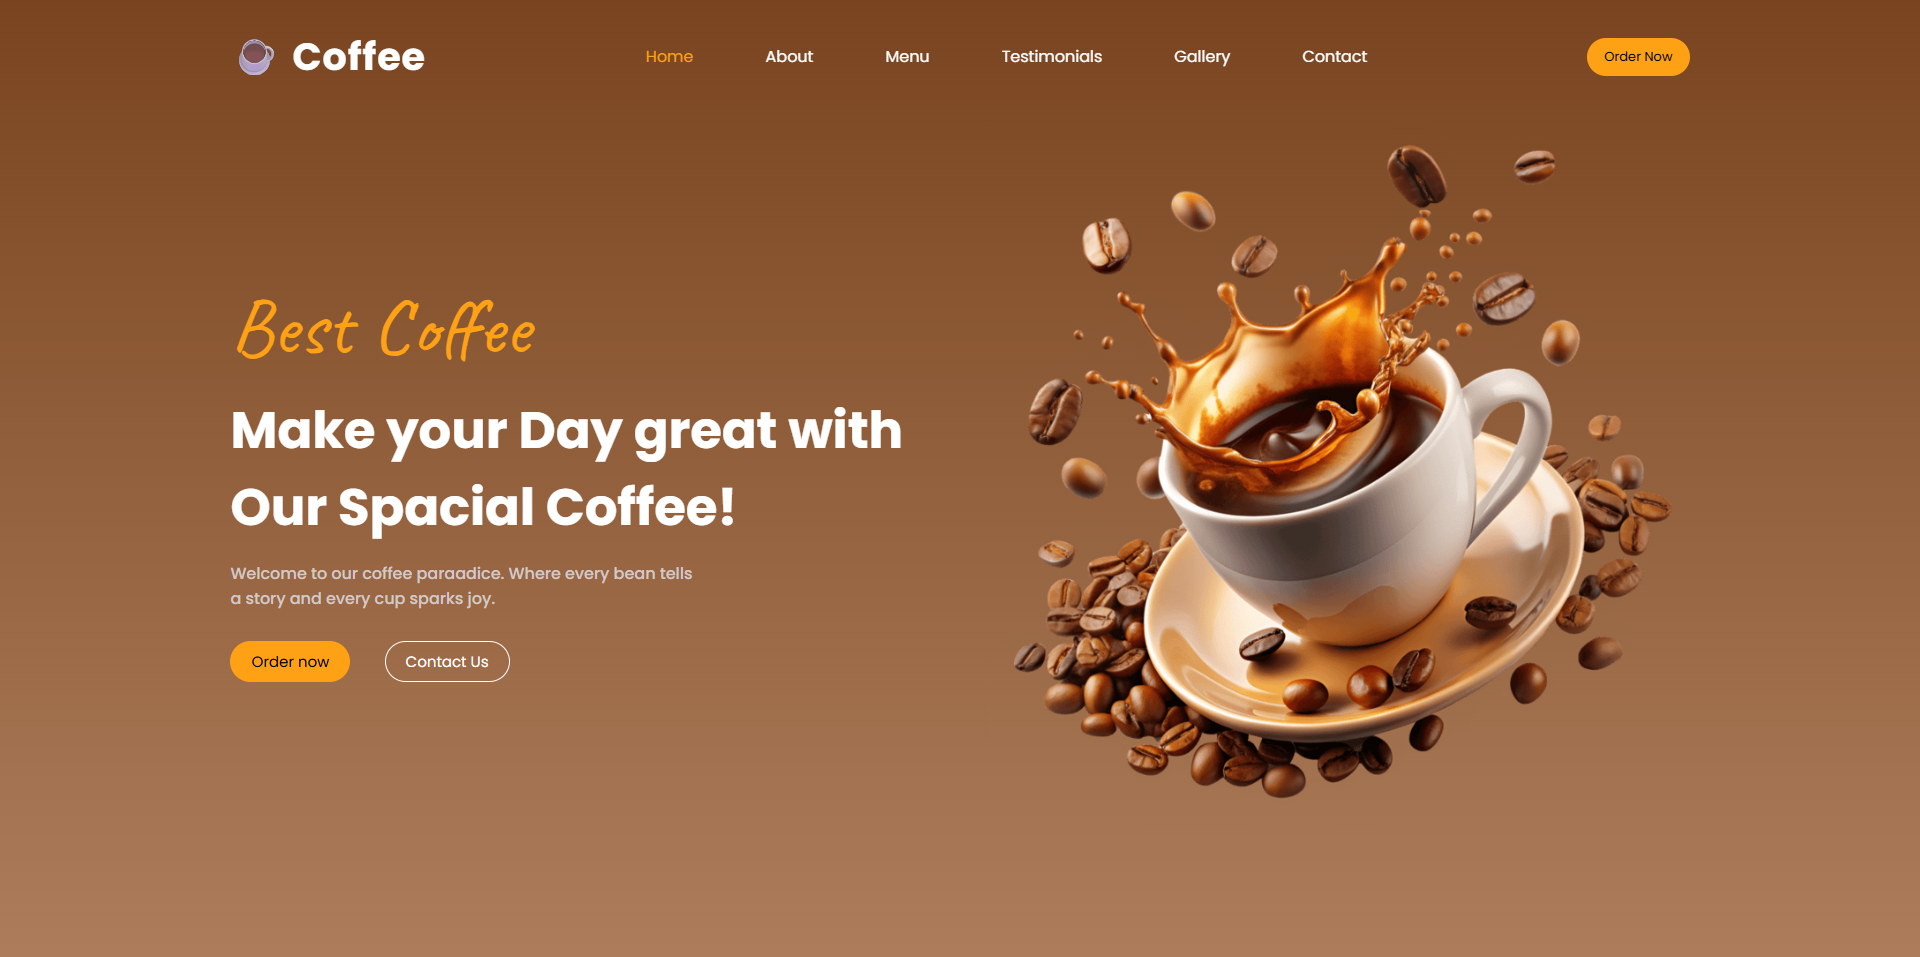
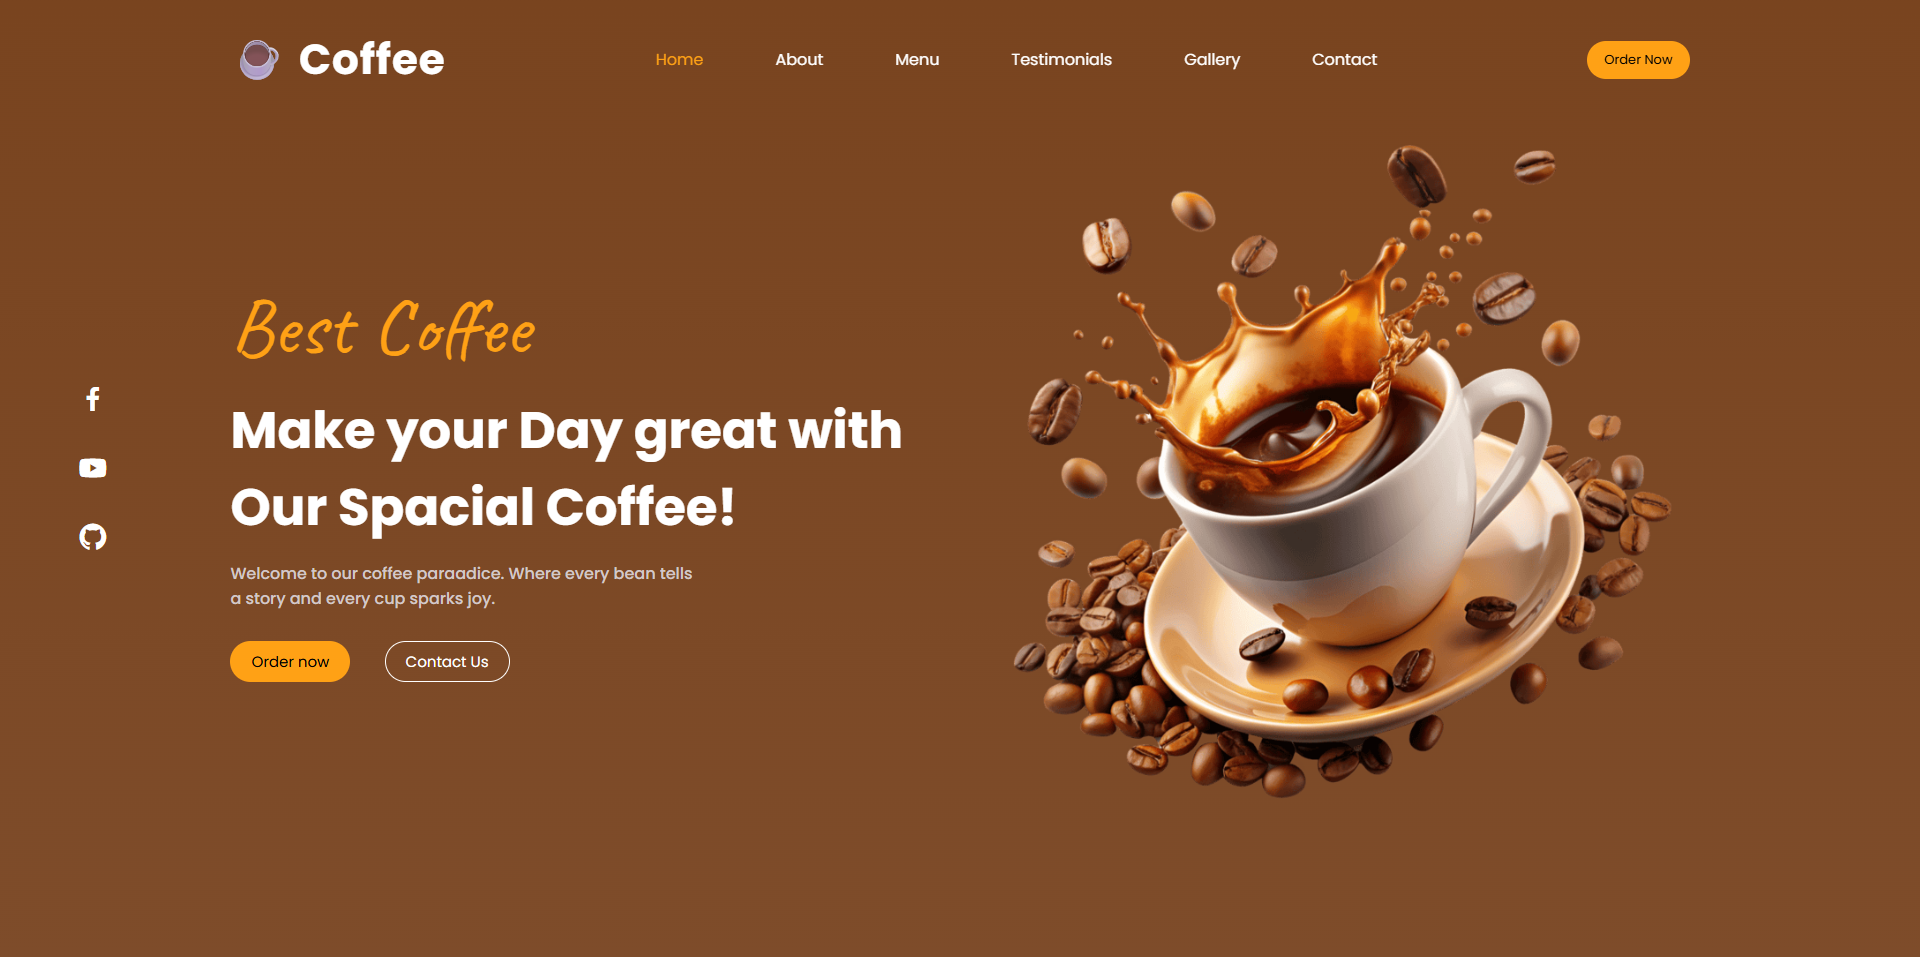
Done

diff --git a/style.css b/style.css
@@ -23,7 +23,7 @@
 }
 
 body {
-    background-image: linear-gradient(#79441f, #946748);
+    background-image: linear-gradient(#79441f, #7e4c2a);
     color: var(--text-color);
 }
 
@@ -44,7 +44,7 @@ body {
 
 .logo h2 {
     color: var(--text-color);
-    font-size: 38px;
+    font-size: 42px;
     font-weight: 700;
     letter-spacing: 1px;
 }
@@ -171,4 +171,24 @@ section {
     background: var(--main-color);
     color: #000;
     border: 1px solid var(--main-color);
+}
+
+.social {
+    position: absolute;
+    top: 40%;
+    left: 4%;
+    display: flex;
+    flex-direction: column;
+    gap: 2rem;
+}
+
+.social i {
+    color: var(--text-color);
+    font-size: 2rem;
+    transition: all .50s ease;
+}
+
+.social i:hover {
+    color: var(--main-color);
+    transform: translateY(-5px) scale(1.1);
 }

diff --git a/index.html b/index.html
@@ -48,6 +48,12 @@
             <img src="images/coffee-hero-section.png" alt="hero image">
         </div>
 
+        <div class="social">
+            <a href="#"><i class='bx bxl-facebook'></i></a>
+            <a href="#"><i class='bx bxl-youtube'></i></a>
+            <a href="#"><i class='bx bxl-github'></i></a>
+        </div>
+
     </section>
 </body>
 </html>
